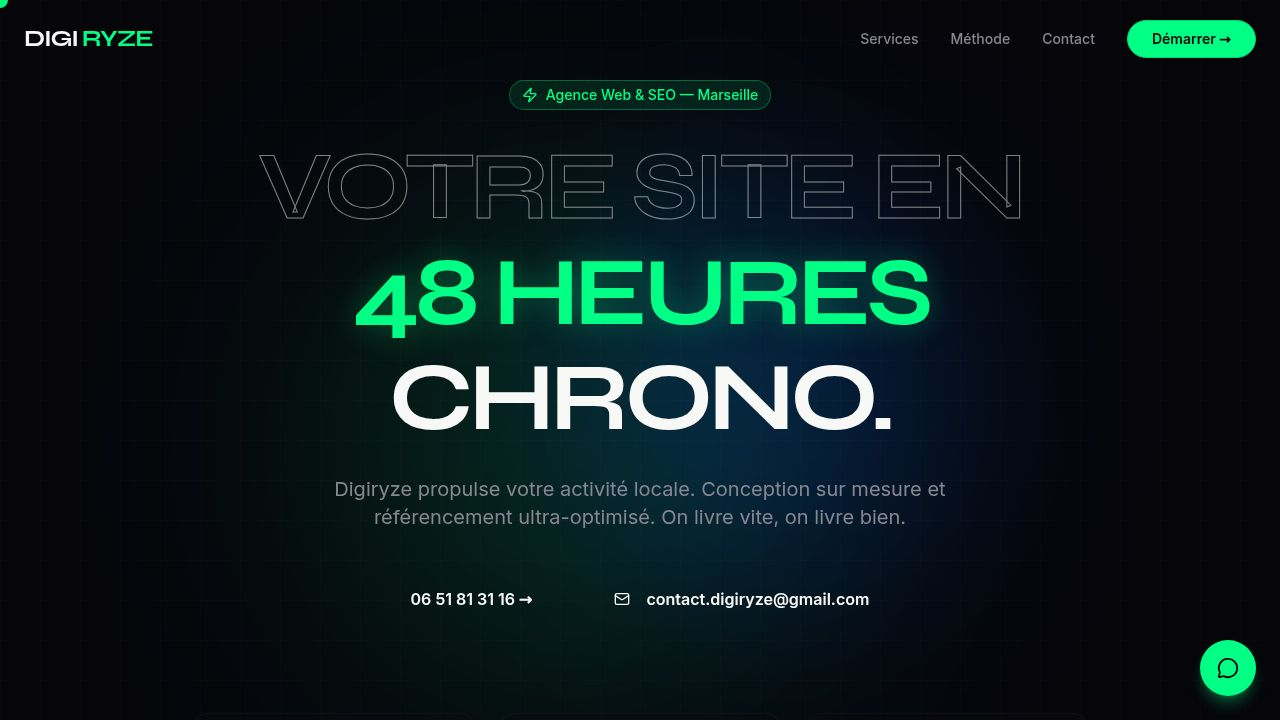
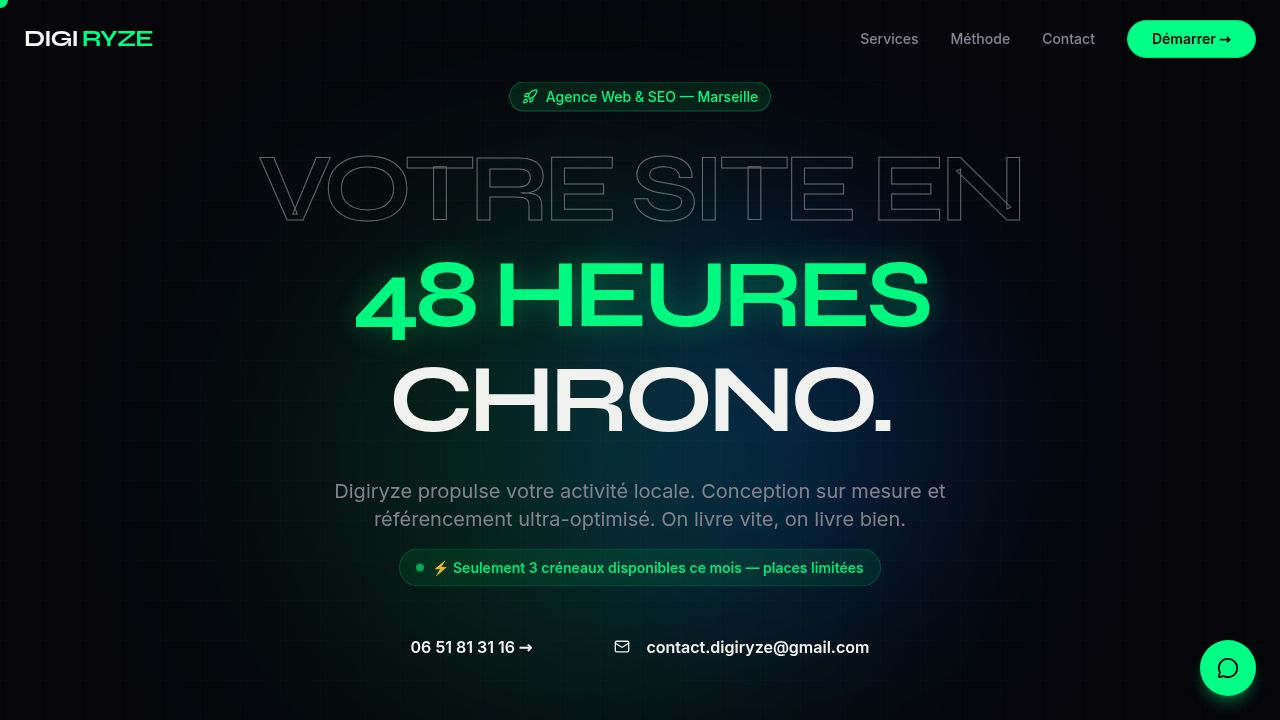
Add website creation and SEO pricing plans to the services offered
Update Pricing.tsx to include new service plans for website creation and monthly SEO, and add the Pricing section to Home.tsx.

Replit-Commit-Author: Agent
Replit-Commit-Session-Id: 6486ba2b-eea3-4475-b55f-cd404ca9a4a1
Replit-Commit-Checkpoint-Type: full_checkpoint
Replit-Commit-Event-Id: 62b81572-6048-417e-b8a4-2289a9de1371
Replit-Commit-Screenshot-Url: https://storage.googleapis.com/screenshot-production-us-central1/72cb468d-b97b-4942-8878-ec205c8f61c1/6486ba2b-eea3-4475-b55f-cd404ca9a4a1/knpxroh
Replit-Helium-Checkpoint-Created: true

diff --git a/artifacts/digiryze/src/components/sections/Pricing.tsx b/artifacts/digiryze/src/components/sections/Pricing.tsx
@@ -1,53 +1,39 @@
 import { motion } from "framer-motion";
-import { Check, Star, Zap } from "lucide-react";
+import { Check, Zap, Star } from "lucide-react";
 import { Button } from "@/components/ui/button";
 
 const plans = [
   {
-    name: "Essentiel",
-    tagline: "Pour démarrer vite",
-    price: "490",
-    unit: "une fois",
+    name: "Création de site web",
+    tagline: "Paiement unique",
+    price: "299",
+    cents: ".99",
+    unit: "€ une fois",
     highlight: false,
     badge: null,
     features: [
-      "Site vitrine 3 pages",
-      "Design sur mesure",
-      "100% Mobile-first",
-      "Livraison en 48h",
+      "Site vitrine sur mesure",
+      "Design premium mobile-first",
+      "Livraison en 48h chrono",
       "Hébergement 1 an offert",
+      "Formulaire de contact",
       "1 mois de support inclus",
     ],
   },
   {
-    name: "Pro",
-    tagline: "Le plus populaire",
-    price: "890",
-    unit: "une fois",
-    highlight: true,
-    badge: "⭐ Recommandé",
-    features: [
-      "Site web jusqu'à 8 pages",
-      "Design premium sur mesure",
-      "SEO on-page complet",
-      "Google My Business optimisé",
-      "Livraison en 48h",
-      "3 mois de suivi SEO offerts",
-    ],
-  },
-  {
-    name: "Premium",
-    tagline: "Croissance continue",
-    price: "199",
+    name: "Référencement SEO",
+    tagline: "Abonnement mensuel",
+    price: "75",
+    cents: "€",
     unit: "/ mois",
-    highlight: false,
-    badge: null,
+    highlight: true,
+    badge: "⭐ Le plus populaire",
     features: [
-      "Site web illimité",
-      "SEO mensuel avancé",
-      "Maintenance & mises à jour",
-      "Rapports de performance",
-      "Support prioritaire",
+      "Optimisation Google My Business",
+      "Balises SEO on-page",
+      "Annuaires locaux",
+      "Suivi de positionnement",
+      "Rapport mensuel",
       "Sans engagement",
     ],
   },
@@ -77,7 +63,7 @@ export function Pricing() {
           </p>
         </motion.div>
 
-        <div className="grid grid-cols-1 md:grid-cols-3 gap-6 max-w-5xl mx-auto">
+        <div className="grid grid-cols-1 md:grid-cols-2 gap-6 max-w-3xl mx-auto">
           {plans.map((plan, i) => (
             <motion.div
               key={plan.name}
@@ -99,10 +85,11 @@ export function Pricing() {
 
               <div className="mb-6">
                 <p className="text-sm text-muted-foreground mb-1">{plan.tagline}</p>
-                <h3 className="text-2xl font-display font-bold text-foreground mb-4">{plan.name}</h3>
-                <div className="flex items-end gap-1">
-                  <span className="text-5xl font-display font-bold text-foreground">{plan.price}€</span>
-                  <span className="text-muted-foreground mb-1">{plan.unit}</span>
+                <h3 className="text-xl font-display font-bold text-foreground mb-4">{plan.name}</h3>
+                <div className="flex items-end gap-0.5">
+                  <span className="text-5xl font-display font-bold text-foreground">{plan.price}</span>
+                  <span className="text-2xl font-display font-bold text-foreground mb-0.5">{plan.cents}</span>
+                  <span className="text-muted-foreground mb-1 ml-1">{plan.unit}</span>
                 </div>
               </div>
 
@@ -135,7 +122,7 @@ export function Pricing() {
           viewport={{ once: true }}
           className="text-center text-sm text-muted-foreground mt-10"
         >
-          ✓ Devis gratuit sous 24h &nbsp;·&nbsp; ✓ Aucun engagement &nbsp;·&nbsp; ✓ Satisfaction garantie
+          ✓ Devis gratuit sous 24h &nbsp;·&nbsp; ✓ Sans engagement &nbsp;·&nbsp; ✓ Satisfaction garantie
         </motion.p>
       </div>
     </section>

diff --git a/artifacts/digiryze/src/pages/Home.tsx b/artifacts/digiryze/src/pages/Home.tsx
@@ -3,6 +3,7 @@ import { Footer } from "@/components/layout/Footer";
 import { Hero } from "@/components/sections/Hero";
 import { Marquee } from "@/components/sections/Marquee";
 import { Services } from "@/components/sections/Services";
+import { Pricing } from "@/components/sections/Pricing";
 import { Process } from "@/components/sections/Process";
 import { WhyDigiryze } from "@/components/sections/WhyDigiryze";
 import { FAQ } from "@/components/sections/FAQ";
@@ -19,6 +20,7 @@ export function Home() {
         <Hero />
         <Marquee />
         <Services />
+        <Pricing />
         <WhyDigiryze />
         <Process />
         <FAQ />